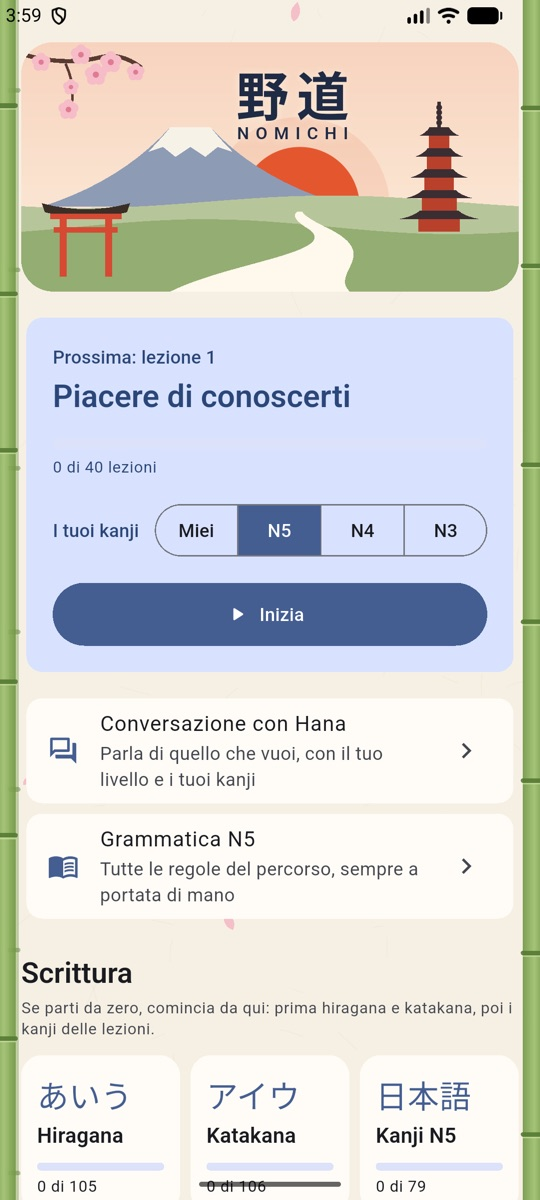
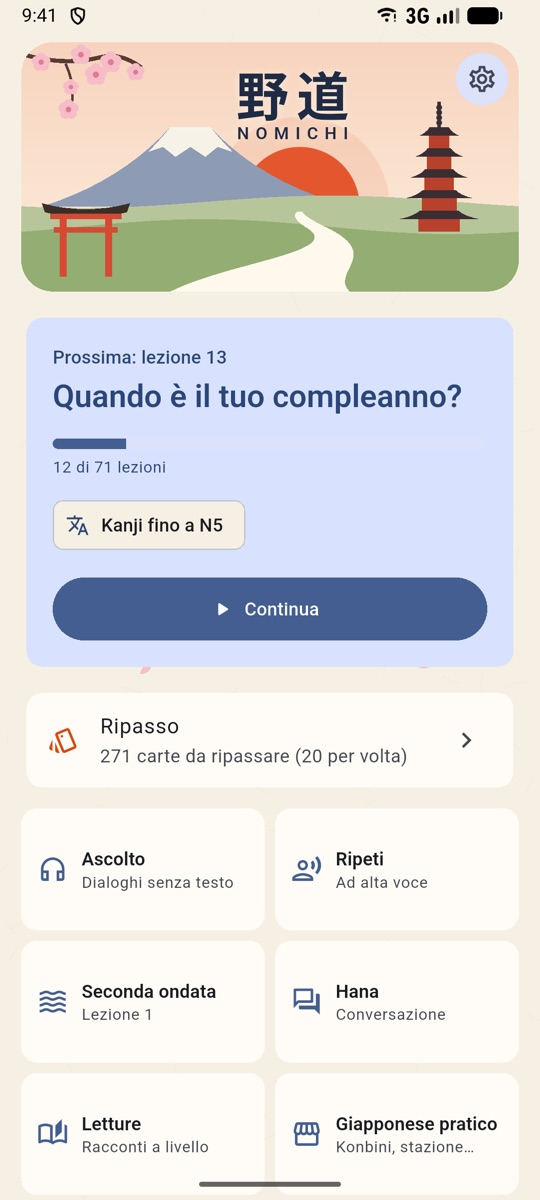
New screenshots: home with tiles, Practical Japanese, graded reading, multiple-choice review

diff --git a/README.md b/README.md
@@ -19,7 +19,7 @@
 <p align="center"><sub>The same dialogue at level N5 and at level N4. Words whose kanji you don't know yet get a soft yellow highlight, and tapping them shows the original.</sub></p>
 
 <p align="center">
-  <img src="media/screen1.jpg" width="160" alt="Home: the app name in a Japanese landscape, next lesson, kanji profile, conversation and grammar">
+  <img src="media/screen1.jpg" width="160" alt="Home: the app name in a Japanese landscape, next lesson, today's review and a grid of sections">
   <img src="media/screen9.jpg" width="160" alt="Lesson 14 with the N5 profile: kanji with furigana, rōmaji, literal and natural translation">
   <img src="media/screen7.jpg" width="160" alt="Fill-in exercise: the missing particle typed in rōmaji and checked">
   <img src="media/screen8.jpg" width="160" alt="N5 grammar guide with search, rōmaji on every Japanese word">
@@ -27,6 +27,14 @@
   <img src="media/screen5.jpg" width="160" alt="Stroke order of 日, with a button to hear its readings">
   <img src="media/screen6.jpg" width="160" alt="Hiragana table">
 </p>
+
+<p align="center">
+  <img src="media/screen11.jpg" width="160" alt="Practical Japanese: seven everyday scenes with comic-style illustrations drawn in code">
+  <img src="media/screen10.jpg" width="160" alt="The convenience-store scene: what the clerk says, with rōmaji and translation, and your replies">
+  <img src="media/screen12.jpg" width="160" alt="A graded reading that uses only the words of the lessons done so far, with N5 kanji and highlighted hiragana">
+  <img src="media/screen13.jpg" width="160" alt="Multiple-choice review: the right answer in green, with reading and meaning">
+</p>
+<p align="center"><sub>Practical Japanese, graded readings and the multiple-choice review.</sub></p>
 
 <p align="center">▶ <a href="media/demo.mp4"><b>Watch the 20-second handwriting demo</b></a></p>
 
